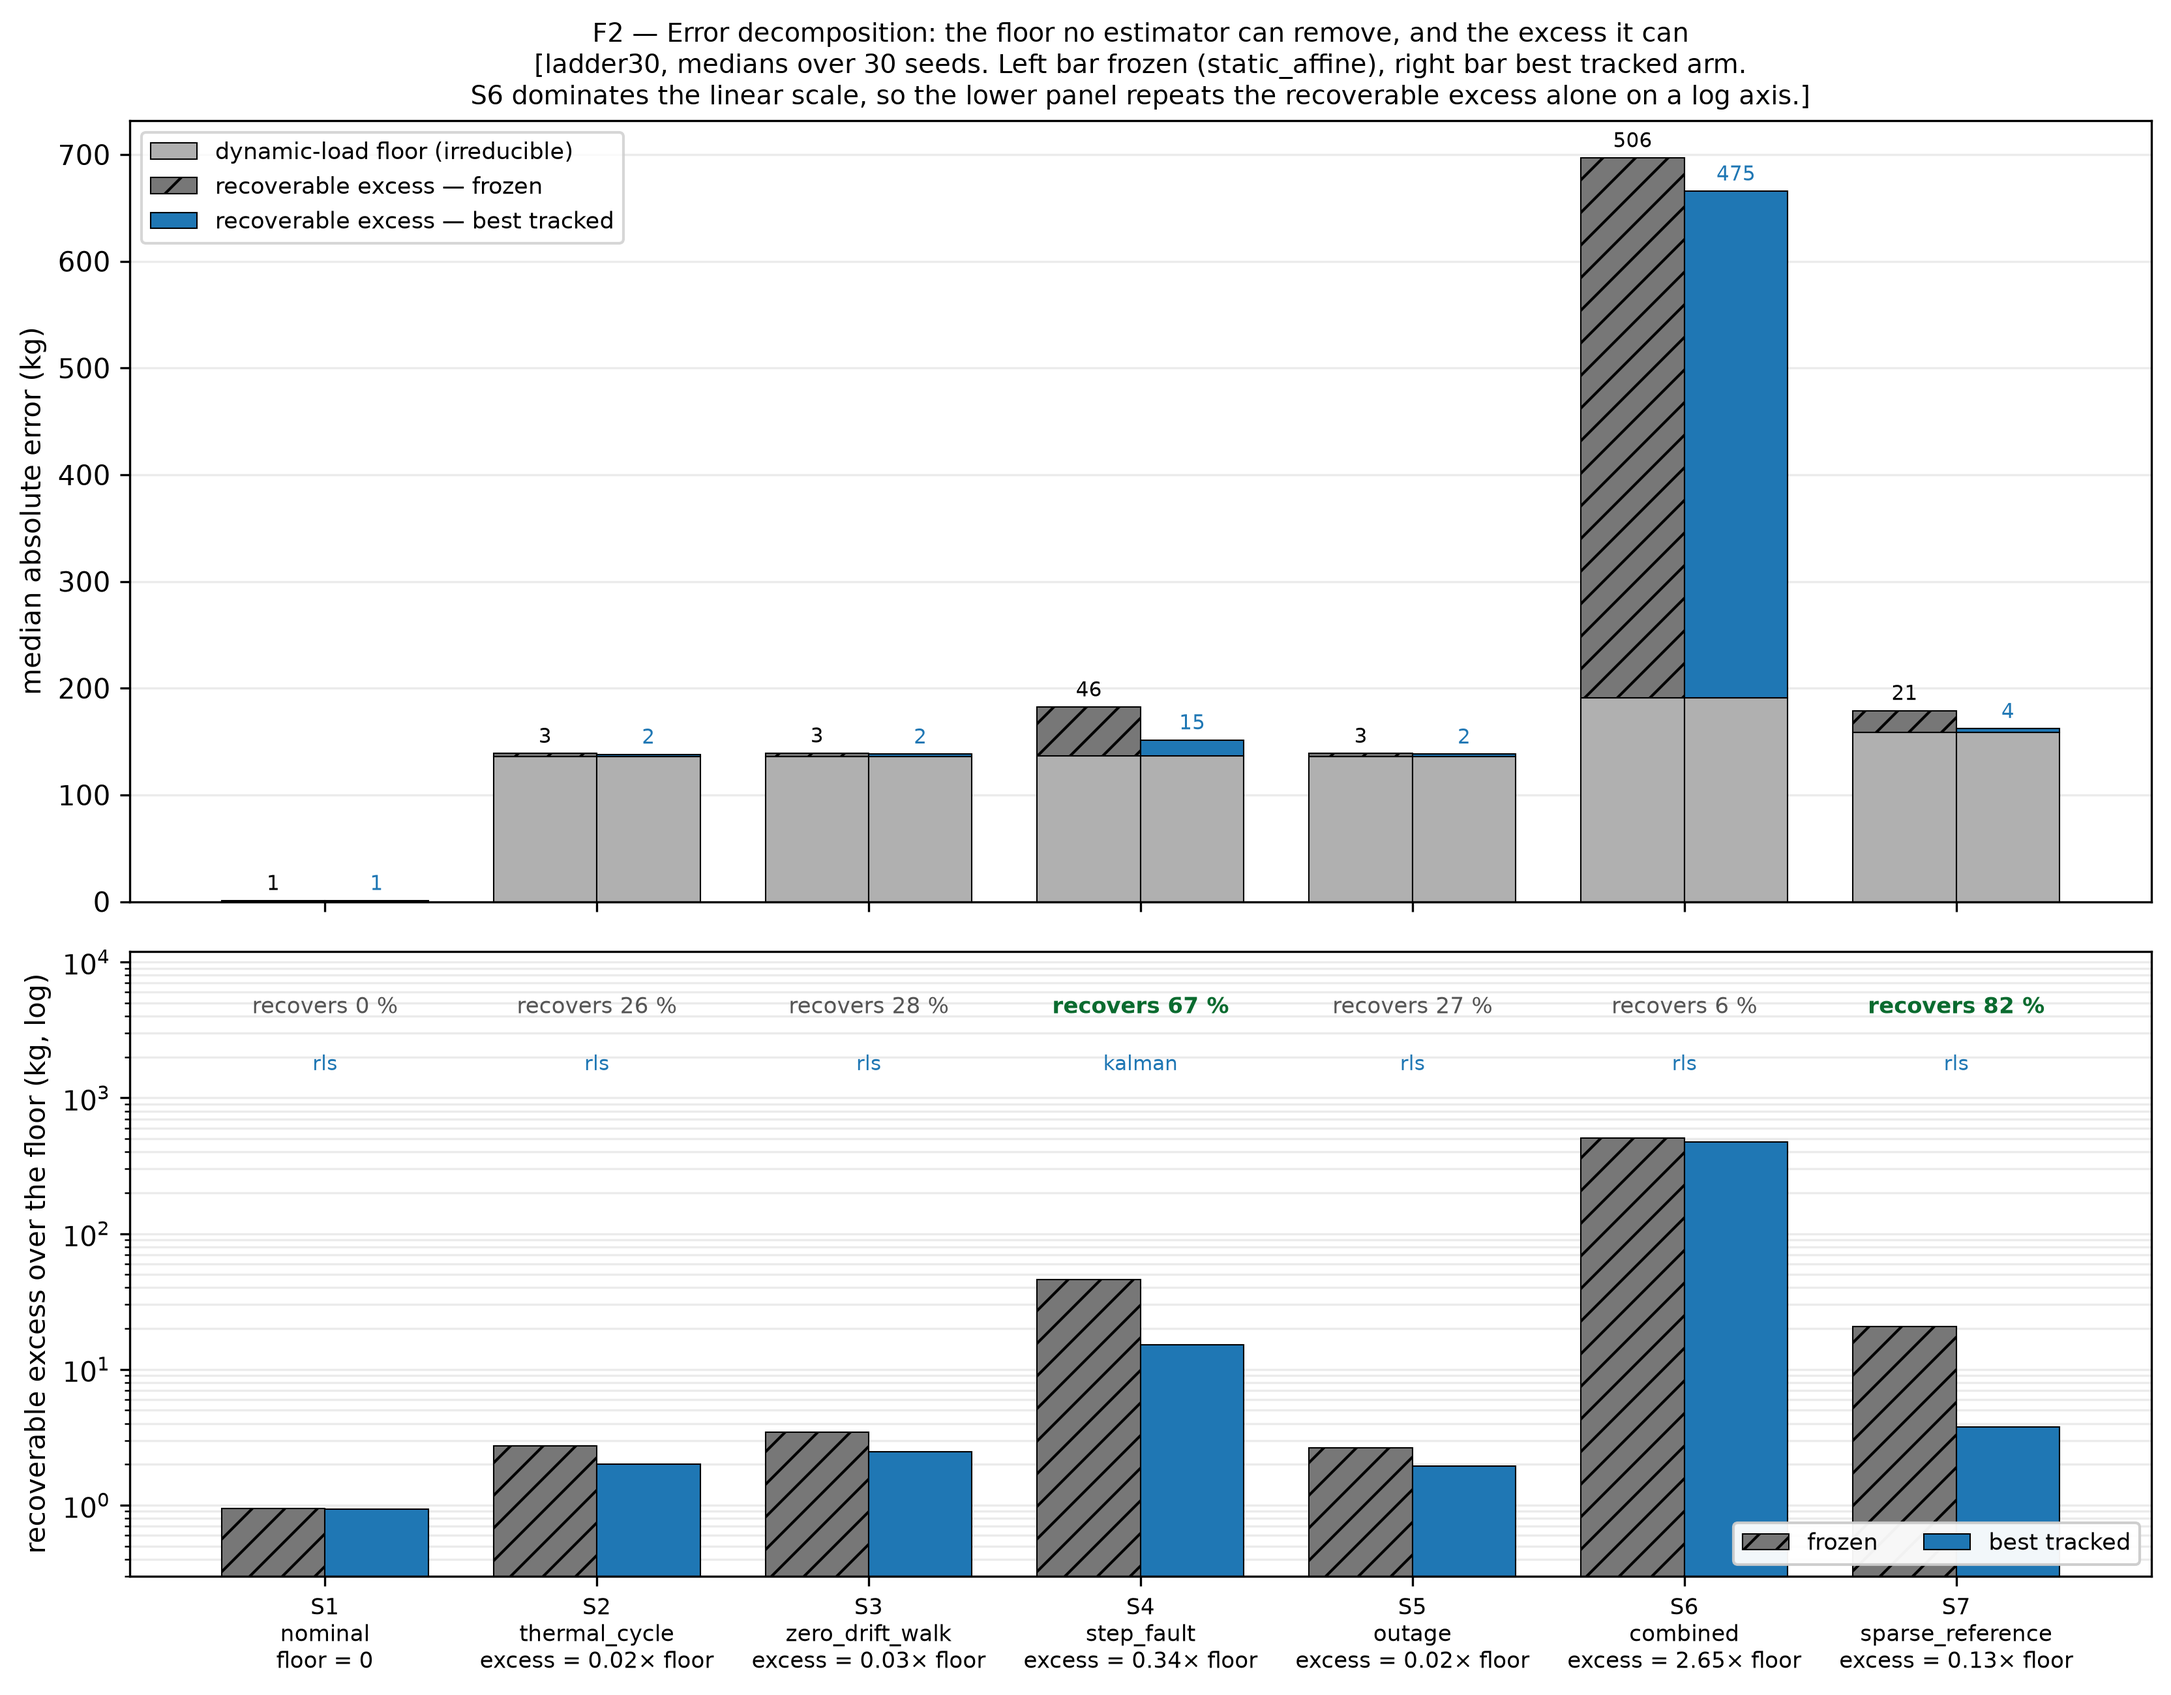
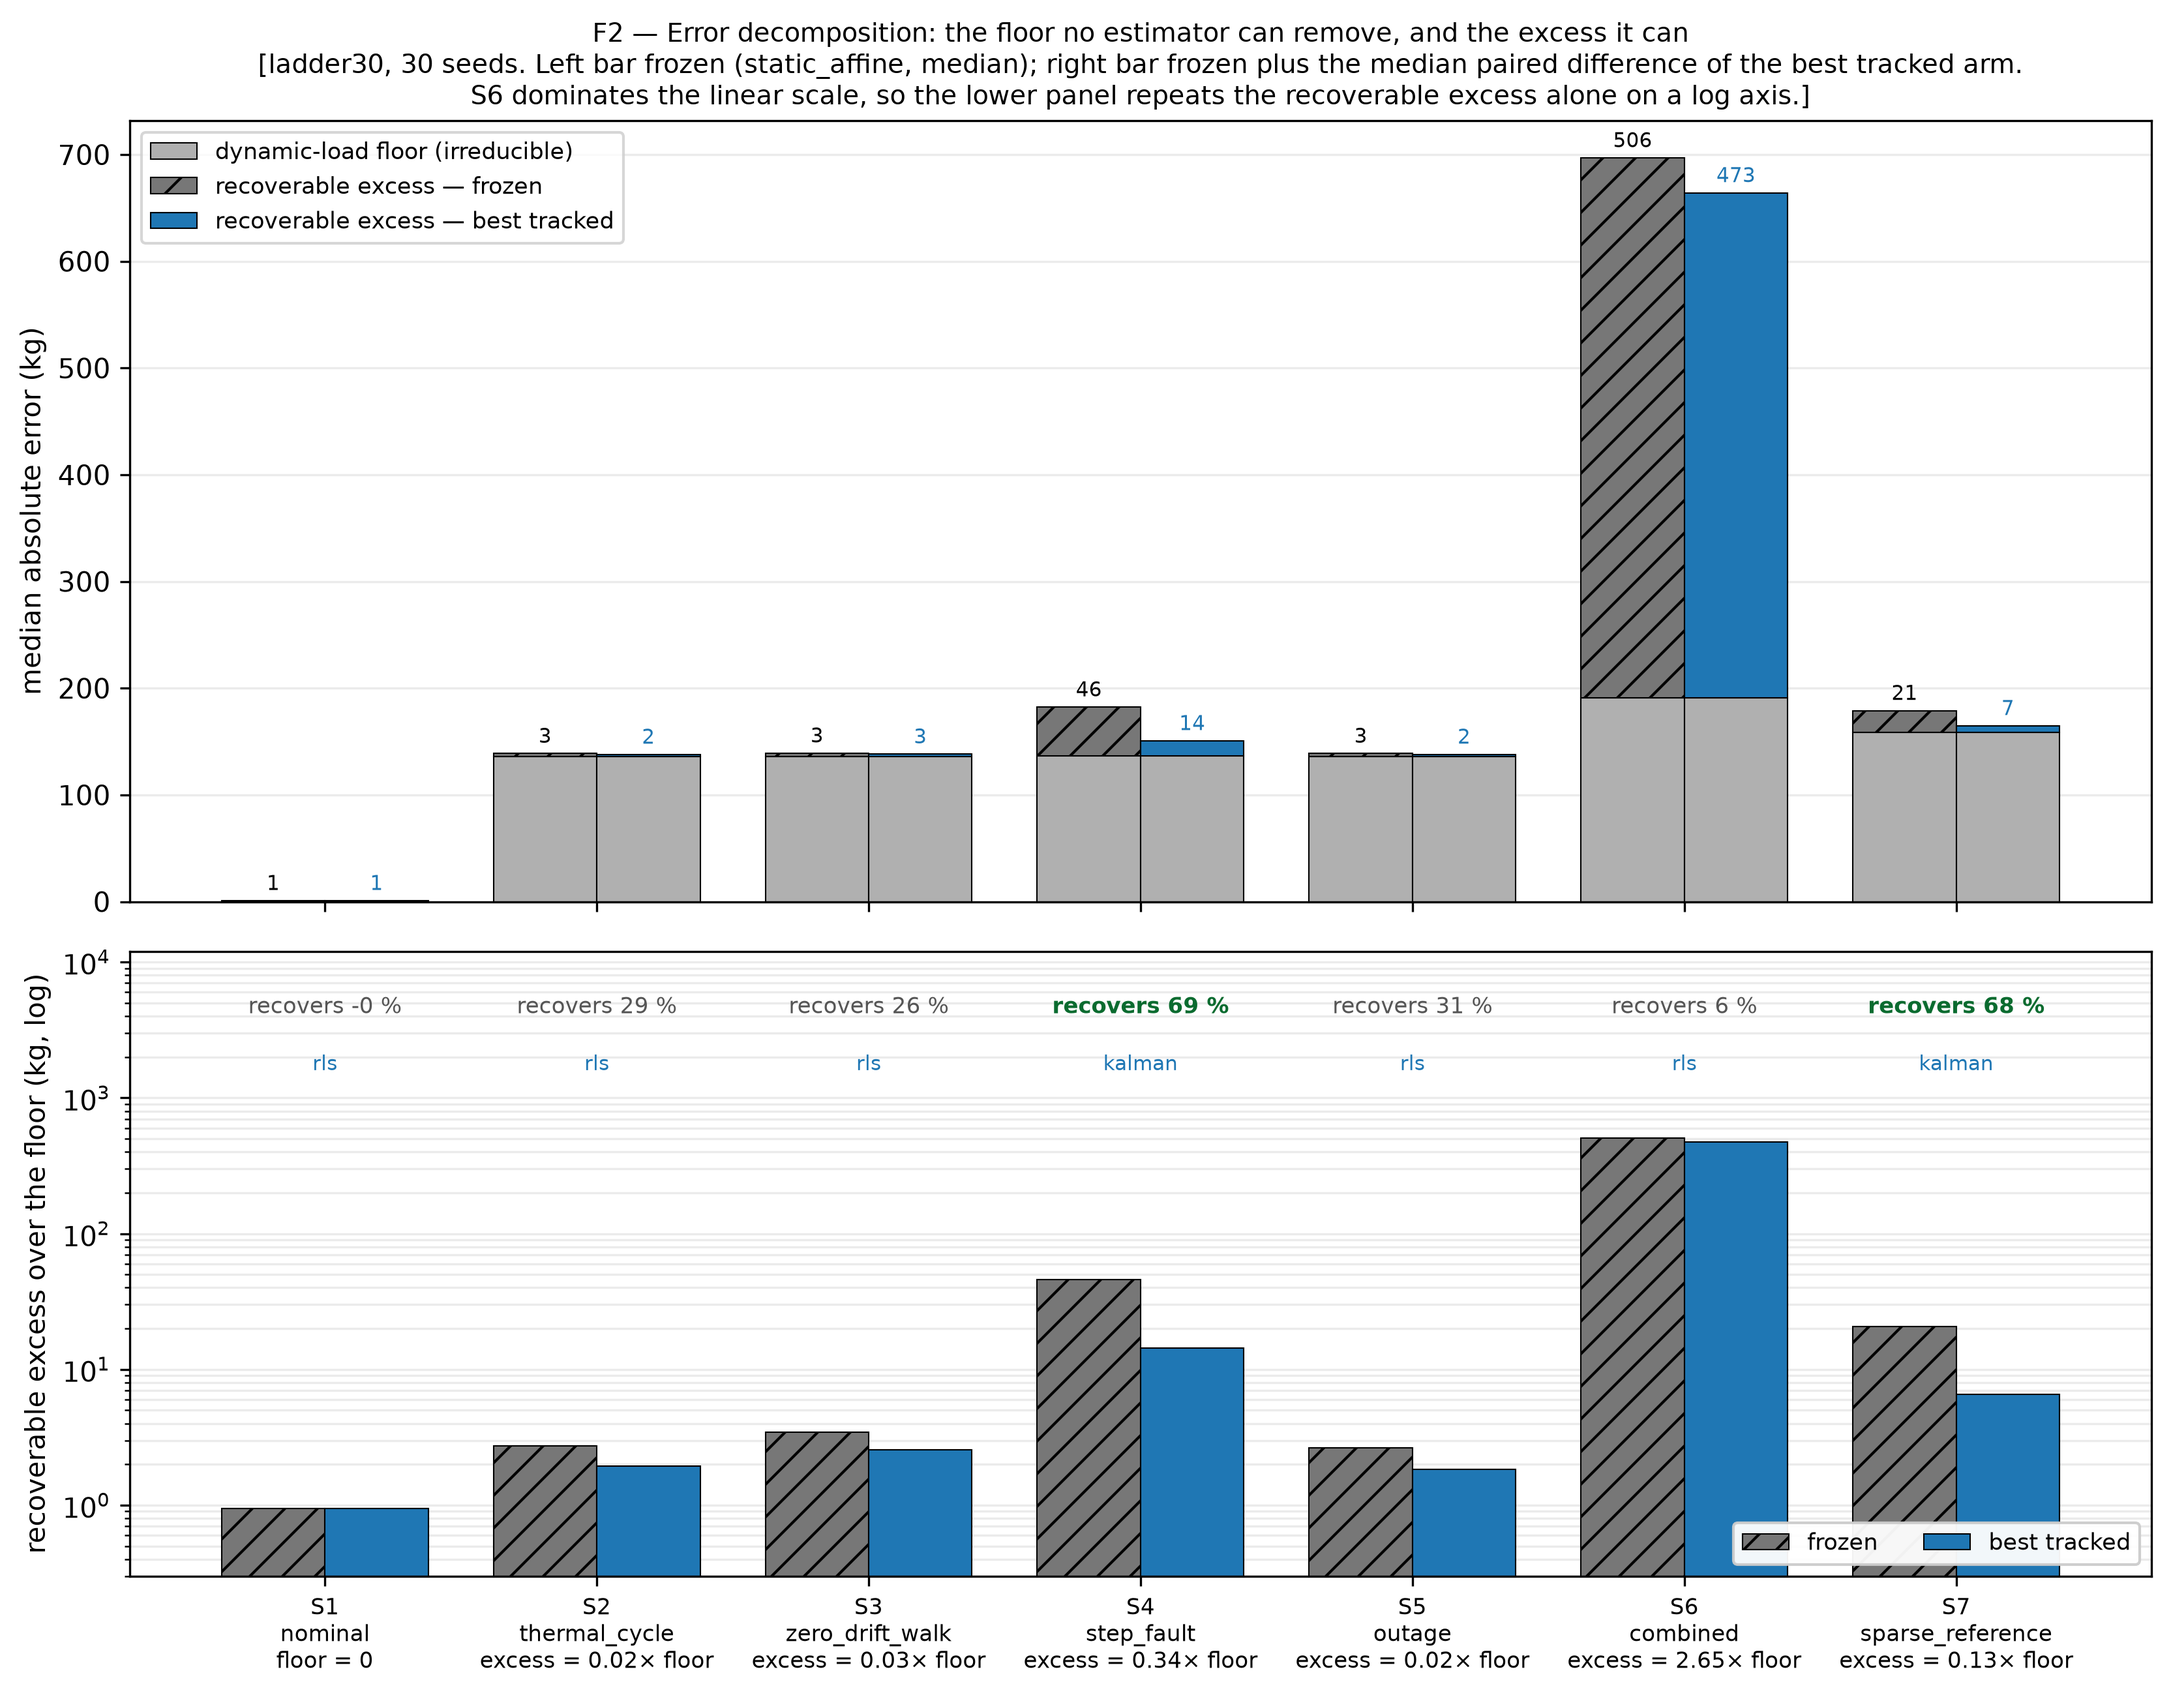
Decision A: F2 on the median of paired differences
The recovered share is now -(median paired difference)/frozen excess, the
statistic the Wilcoxon test is computed on. Adds reducible_share_pct (S1
reads 100 %, per decision B) and median_paired_diff_kg. S6/RLS: 6.5 %.
S1/RLS reads -0.1 % on this basis, not the 0.4 % decision B quotes.

diff --git a/scripts/paper_figures.py b/scripts/paper_figures.py
@@ -64,26 +64,40 @@ def save(fig, name):
     return p
 
 
-def best_tracked(df, scen):
-    """The tracked arm with the lower median MAE on this scenario."""
+def paired_median(df, scen, arm):
+    """Median over seeds of (arm - static_affine) MAE: the statistic the Wilcoxon test is run on.
+
+    Decision A of the Phase 0 audit. The difference of medians this replaced corresponds to no
+    test reported anywhere, and on S7 it overstated the recovered share by fourteen points.
+    """
     w = wide(df, scen, "mae_kg")
-    return min(("rls", "kalman"), key=lambda e: np.median(w[e]))
+    return float(np.median(w[arm] - w["static_affine"]))
+
+
+def best_tracked(df, scen):
+    """The tracked arm with the more negative median paired difference on this scenario."""
+    return min(("rls", "kalman"), key=lambda e: paired_median(df, scen, e))
 
 
 # ---------------------------------------------------------------- F2
 def f2():
-    frozen_ex, track_ex, floors, tracked_name = [], [], [], []
+    frozen_ex, track_ex, floors, tracked_name, paired = [], [], [], [], []
     for s in SCENS:
         f = floor_med(lad, s)
         w = wide(lad, s, "mae_kg")
         bt = best_tracked(lad, s)
+        d = paired_median(lad, s, bt)
         floors.append(f)
-        frozen_ex.append(max(np.median(w["static_affine"]) - f, 0.0))
-        track_ex.append(max(np.median(w[bt]) - f, 0.0))
+        fe = max(np.median(w["static_affine"]) - f, 0.0)
+        frozen_ex.append(fe)
+        # Not clipped at zero: an arm that does worse than frozen shows it (decision B).
+        track_ex.append(fe + d)
+        paired.append(d)
         tracked_name.append(bt)
     floors = np.array(floors)
     frozen_ex = np.array(frozen_ex)
     track_ex = np.array(track_ex)
+    paired = np.array(paired)
     ratio = np.where(floors > 1e-9, frozen_ex / np.maximum(floors, 1e-9), np.nan)
 
     x = np.arange(len(SCENS))
@@ -108,8 +122,8 @@ def f2():
     _nl = chr(10)
     ax.set_title(
         "F2 — Error decomposition: the floor no estimator can remove, and the excess it can" + _nl
-        + "[ladder30, medians over 30 seeds. Left bar frozen (static_affine), right bar best "
-          "tracked arm." + _nl
+        + "[ladder30, 30 seeds. Left bar frozen (static_affine, median); right bar frozen plus the "
+          "median paired difference of the best tracked arm." + _nl
         + "S6 dominates the linear scale, so the lower panel repeats the recoverable excess "
           "alone on a log axis.]", fontsize=9.6)
     ax.legend(fontsize=8.5, loc="upper left")
@@ -148,8 +162,10 @@ def f2():
                          "best_tracked_arm": tracked_name,
                          "tracked_excess_kg": np.round(track_ex, 1),
                          "excess_over_floor": np.round(ratio, 3),
+                         "reducible_share_pct": np.round(100 * frozen_ex / (floors + frozen_ex), 1),
+                         "median_paired_diff_kg": np.round(paired, 2),
                          "recovered_pct": np.round(
-                             np.where(frozen_ex > 1e-9, 100*(frozen_ex-track_ex)/np.maximum(frozen_ex,1e-9), np.nan), 1)})
+                             np.where(frozen_ex > 1e-9, -100*paired/np.maximum(frozen_ex,1e-9), np.nan), 1)})
 
 
 # ---------------------------------------------------------------- F4

diff --git a/REVISION_LOG.md b/REVISION_LOG.md
@@ -1325,3 +1325,38 @@ per-event errors, and the export carries per-run aggregates only. Both denominat
 against the same all-vehicle MAE, and the figure says so on its face.
 
 ---
+
+## Phase 1 — confirmed decisions A–C, and items 1.1–1.7
+
+Run order as instructed: 1.2, then 1.3, then the rest. Every new comparison family runs under the
+seed protocol at the top of this log.
+
+### Decision A applied — the median of paired differences, everywhere
+
+`scripts/paper_figures.py` F2 now computes the tracked excess as *frozen excess + median over seeds
+of (tracked − frozen)*, and the recovered share as −(median paired difference) / frozen excess. The
+best tracked arm is the one with the more negative median paired difference. `F2_decomposition.csv`
+is regenerated and gains two columns, `reducible_share_pct` = frozen excess / (floor + frozen
+excess) and `median_paired_diff_kg`. No other export file changed.
+
+| scenario | arm | median paired Δ (kg) | recovered, was (diff. of medians) | recovered, now |
+|---|---|---:|---:|---:|
+| S1 | rls | +0.00 | 0.4 % | **−0.1 %** |
+| S2 | rls | −0.80 | 26.3 % | 29.2 % |
+| S3 | rls | −0.89 | 28.0 % | 25.9 % |
+| S4 | kalman | −31.61 | 67.1 % | 68.7 % |
+| S5 | rls | −0.81 | 26.7 % | 30.7 % |
+| S6 | rls | −32.74 | 6.2 % | **6.5 %** |
+| S7 | **kalman** (was rls) | −14.18 | 81.8 % | 68.4 % |
+
+Three things the brief did not already list:
+
+- **S1 under decision A recovers −0.1 %, not 0.4 %.** The 0.4 % in decision B is a
+  difference-of-medians figure. On the paired basis the median difference is +0.003 kg: adaptation
+  recovers nothing, marginally less than nothing. Decision B's point stands and is sharper.
+- **S7's best tracked arm changes from RLS to Kalman** (−14.18 kg against −14.10 kg). The two are
+  0.08 kg apart and the choice is immaterial to the share (68.4 % against 68.0 %), but the
+  `best_tracked_arm` column changes.
+- S2, S3 and S5 move by 2–4 points each; all three remain below a third.
+
+S6/RLS on the paired basis: **−32.7 kg, 6.5 %**.
